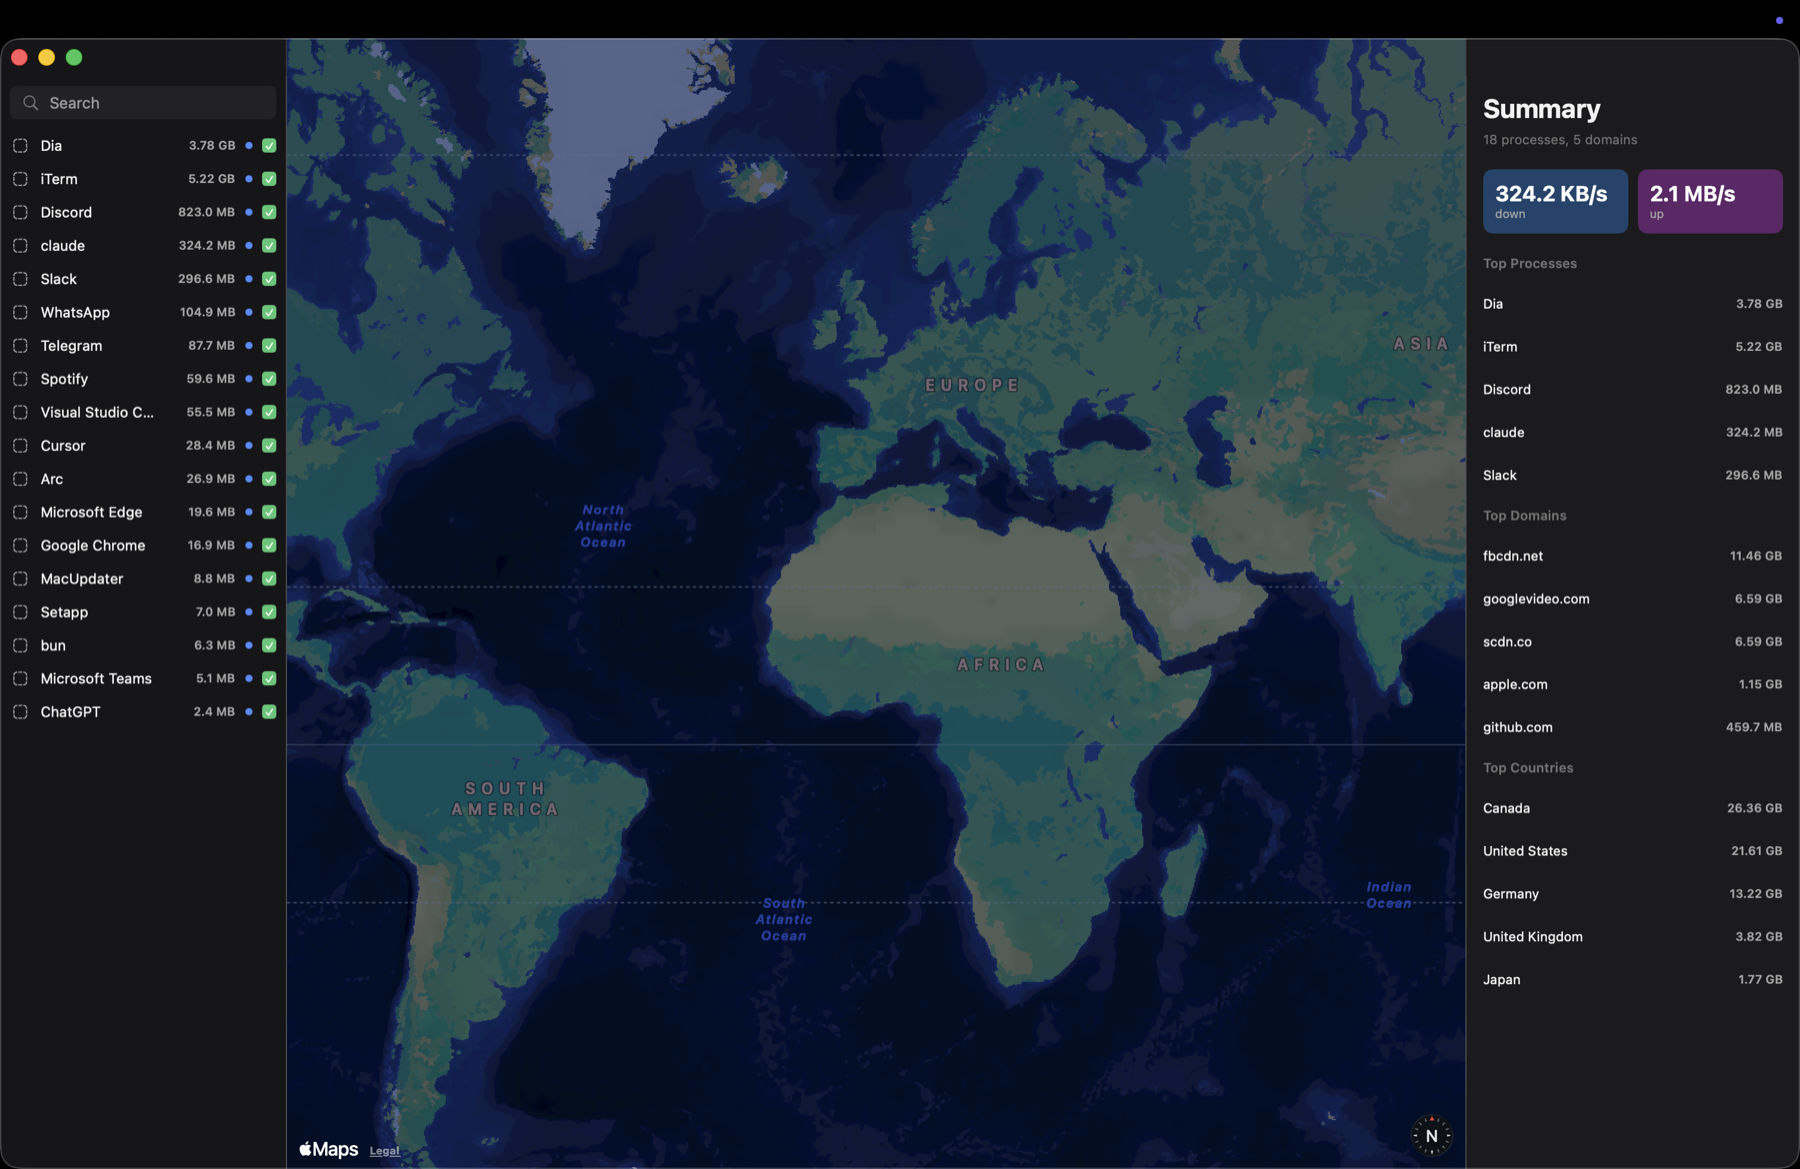
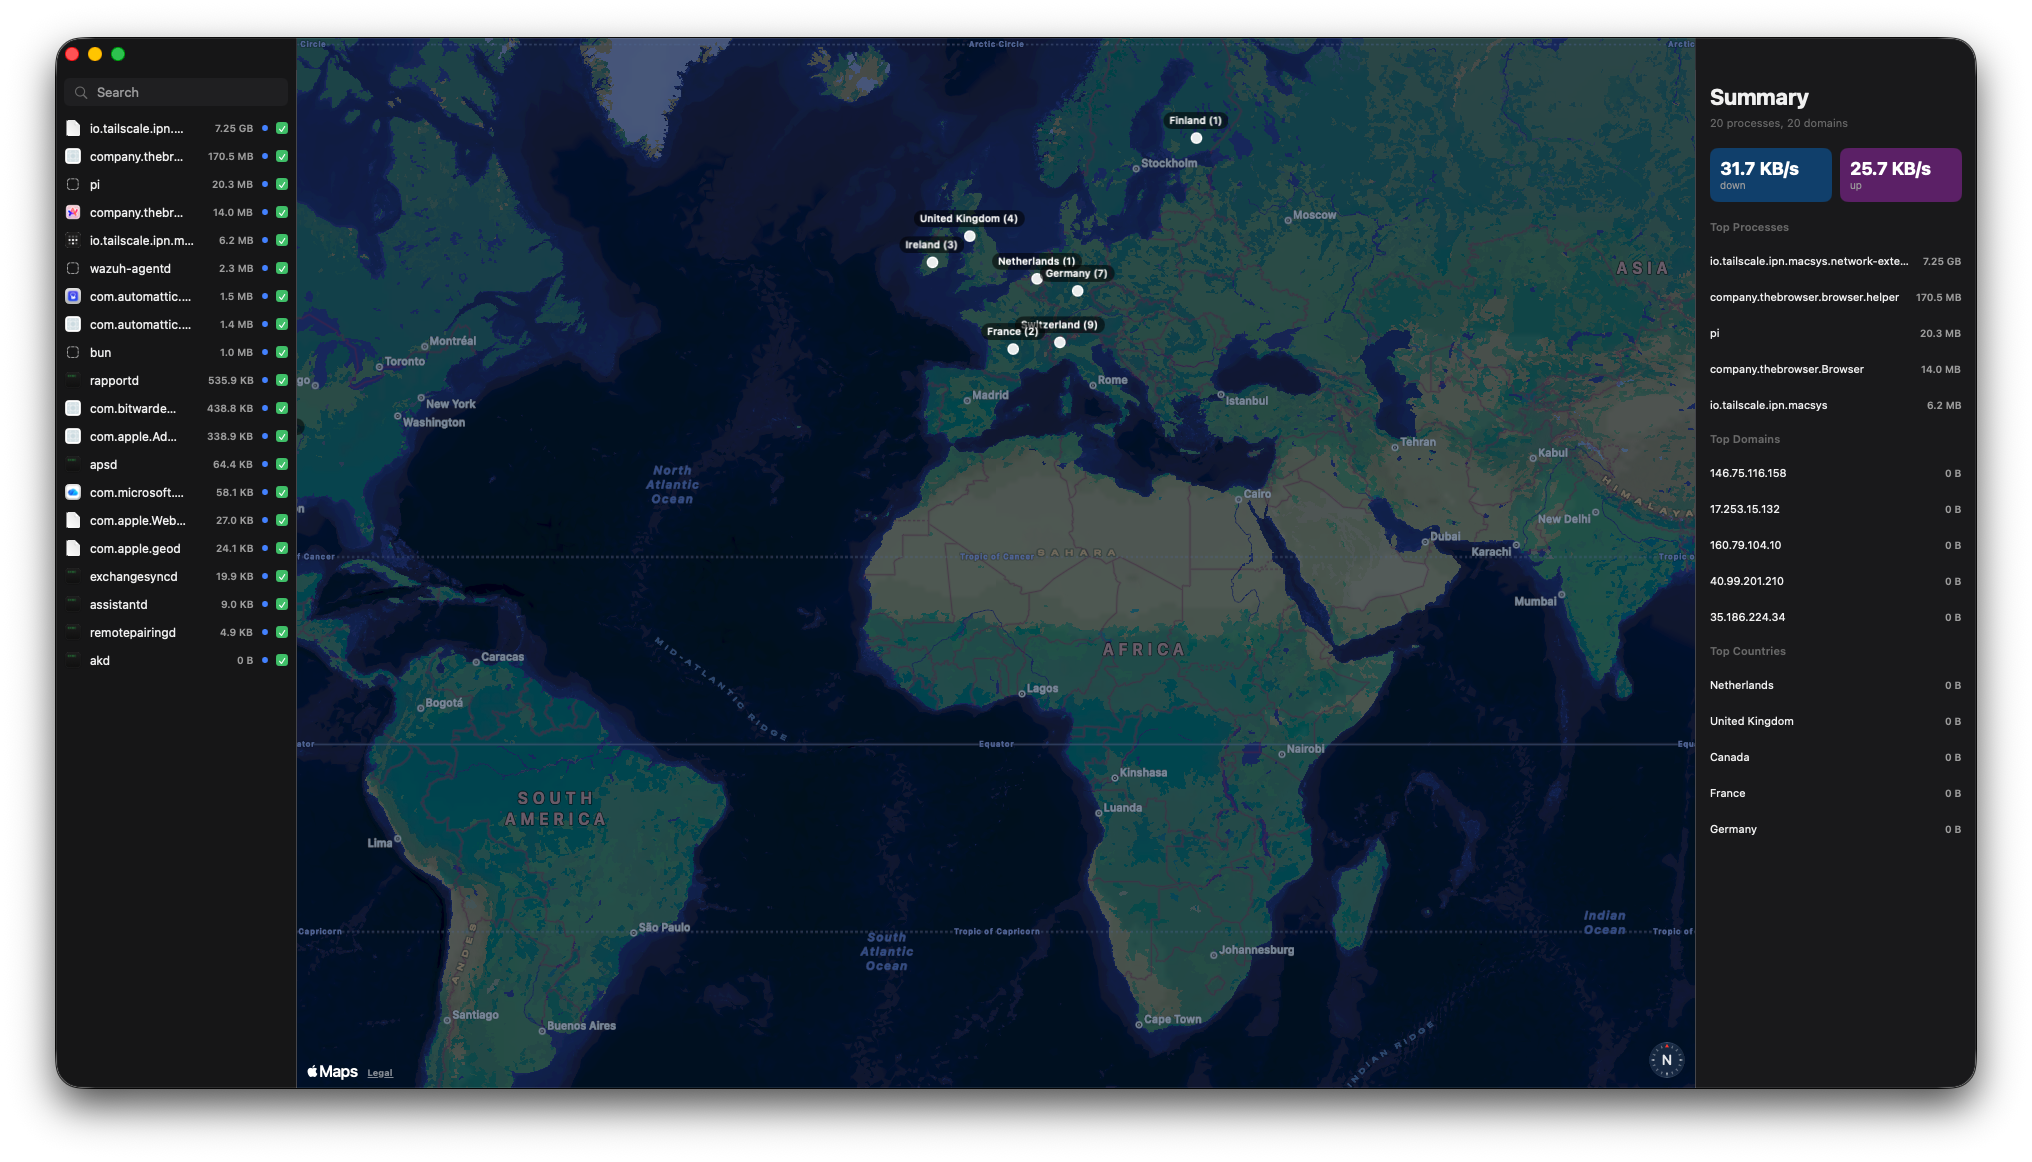
docs(site): replace obsolete product screenshots (#9)

diff --git a/docs/index.html b/docs/index.html
@@ -79,7 +79,7 @@
       </div>
       <figure class="lg:justify-self-end lg:max-w-[47rem]">
         <div class="overflow-hidden rounded-xl border border-line bg-surface-raised p-2">
-          <img src="screenshot-hero.png" alt="FreeSnitch monitor showing a world map of active outbound connections and per-process traffic totals" class="w-full rounded-xl" width="1960" height="1272" fetchpriority="high" decoding="async">
+          <img src="screenshot-hero.png" alt="FreeSnitch monitor showing a world map of active outbound connections and per-process traffic totals" class="w-full rounded-xl" width="2032" height="1162" fetchpriority="high" decoding="async">
         </div>
         <figcaption class="mt-4 max-w-xl text-sm leading-6 text-muted">The monitor brings destinations, processes, and byte counts into one view.</figcaption>
       </figure>
@@ -111,7 +111,7 @@
       <div class="mt-16 grid items-start gap-12 lg:grid-cols-[1.35fr_0.65fr] lg:gap-20">
         <figure>
           <div class="overflow-hidden rounded-xl border border-line bg-surface-raised p-2">
-            <img src="screenshot-monitor.png" alt="Network Monitor window with a world map, live connection paths, process names, and byte counts" class="w-full rounded-xl" width="1800" height="1169" loading="lazy" decoding="async">
+            <img src="screenshot-monitor.png" alt="Network Monitor window with a world map, live connection paths, process names, and byte counts" class="w-full rounded-xl" width="2032" height="1162" loading="lazy" decoding="async">
           </div>
           <figcaption class="mt-4 text-sm leading-6 text-muted">A live view of the connections that are easy to miss in an ordinary network menu.</figcaption>
         </figure>
@@ -192,7 +192,7 @@
       <div class="mt-16">
         <figure class="max-w-5xl">
           <div class="overflow-hidden rounded-xl border border-line bg-surface-raised p-2">
-            <img src="screenshot-rules.png" alt="Rules Manager window listing process, hostname, port, action, and priority columns" class="w-full rounded-xl" width="1800" height="1169" loading="lazy" decoding="async">
+            <img src="screenshot-rules.png" alt="Rules Manager window listing process, hostname, port, action, and priority columns" class="w-full rounded-xl" width="1920" height="1080" loading="lazy" decoding="async">
           </div>
           <figcaption class="mt-4 text-sm leading-6 text-muted">Rules stay visible as policy, not hidden as a series of one-time prompts.</figcaption>
         </figure>
